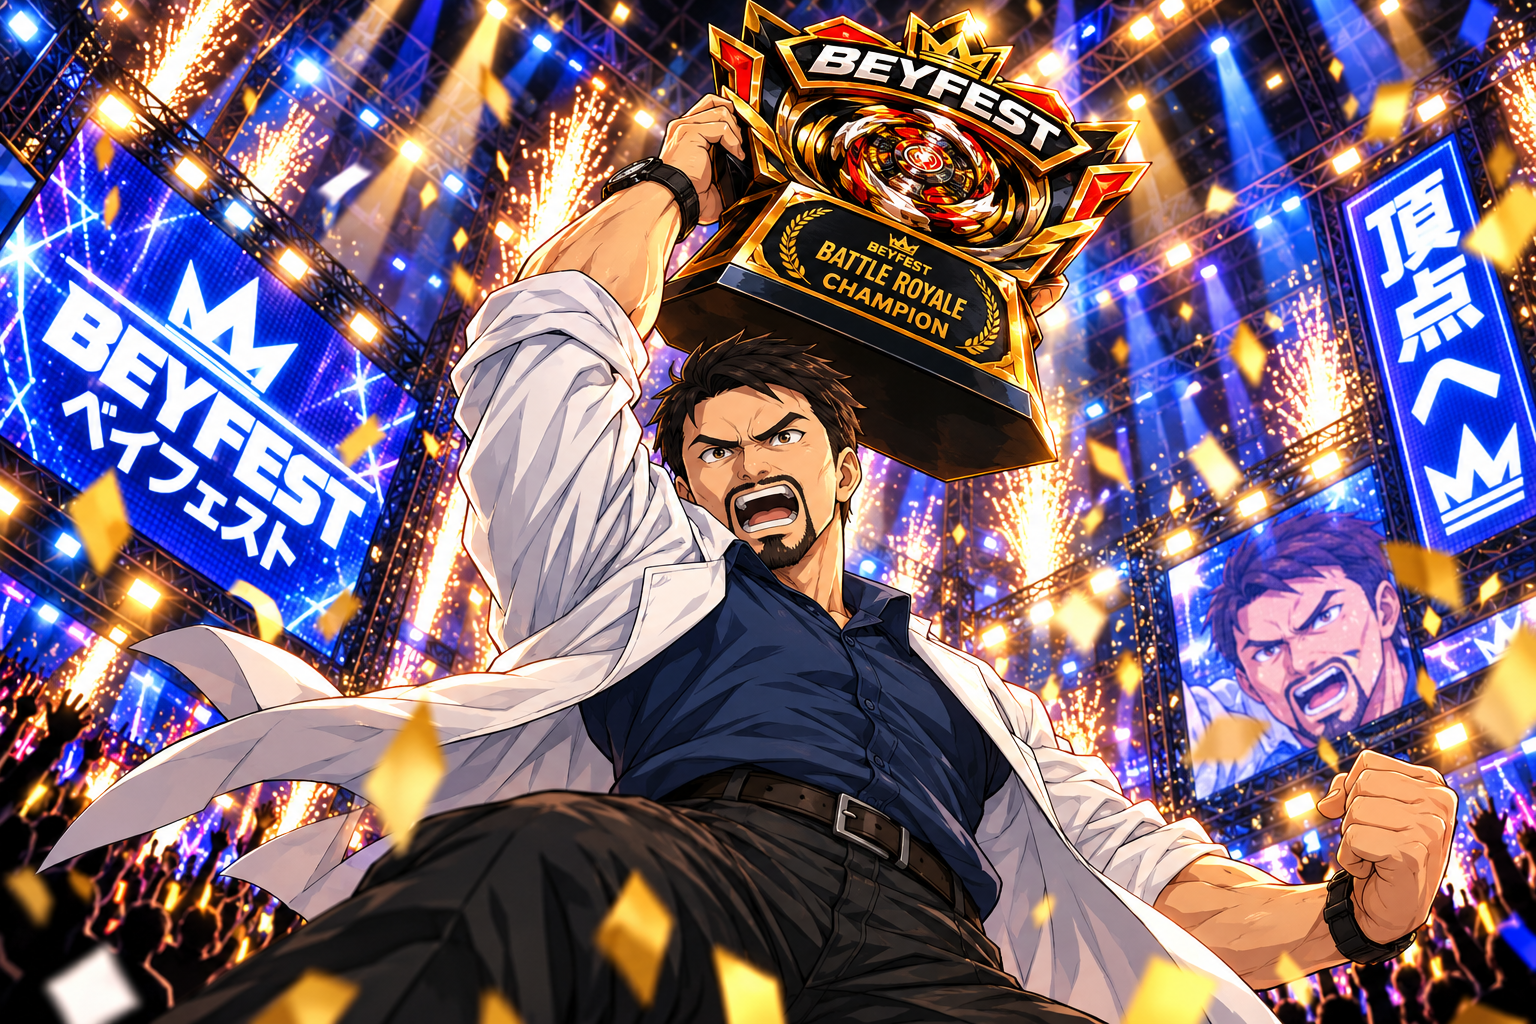
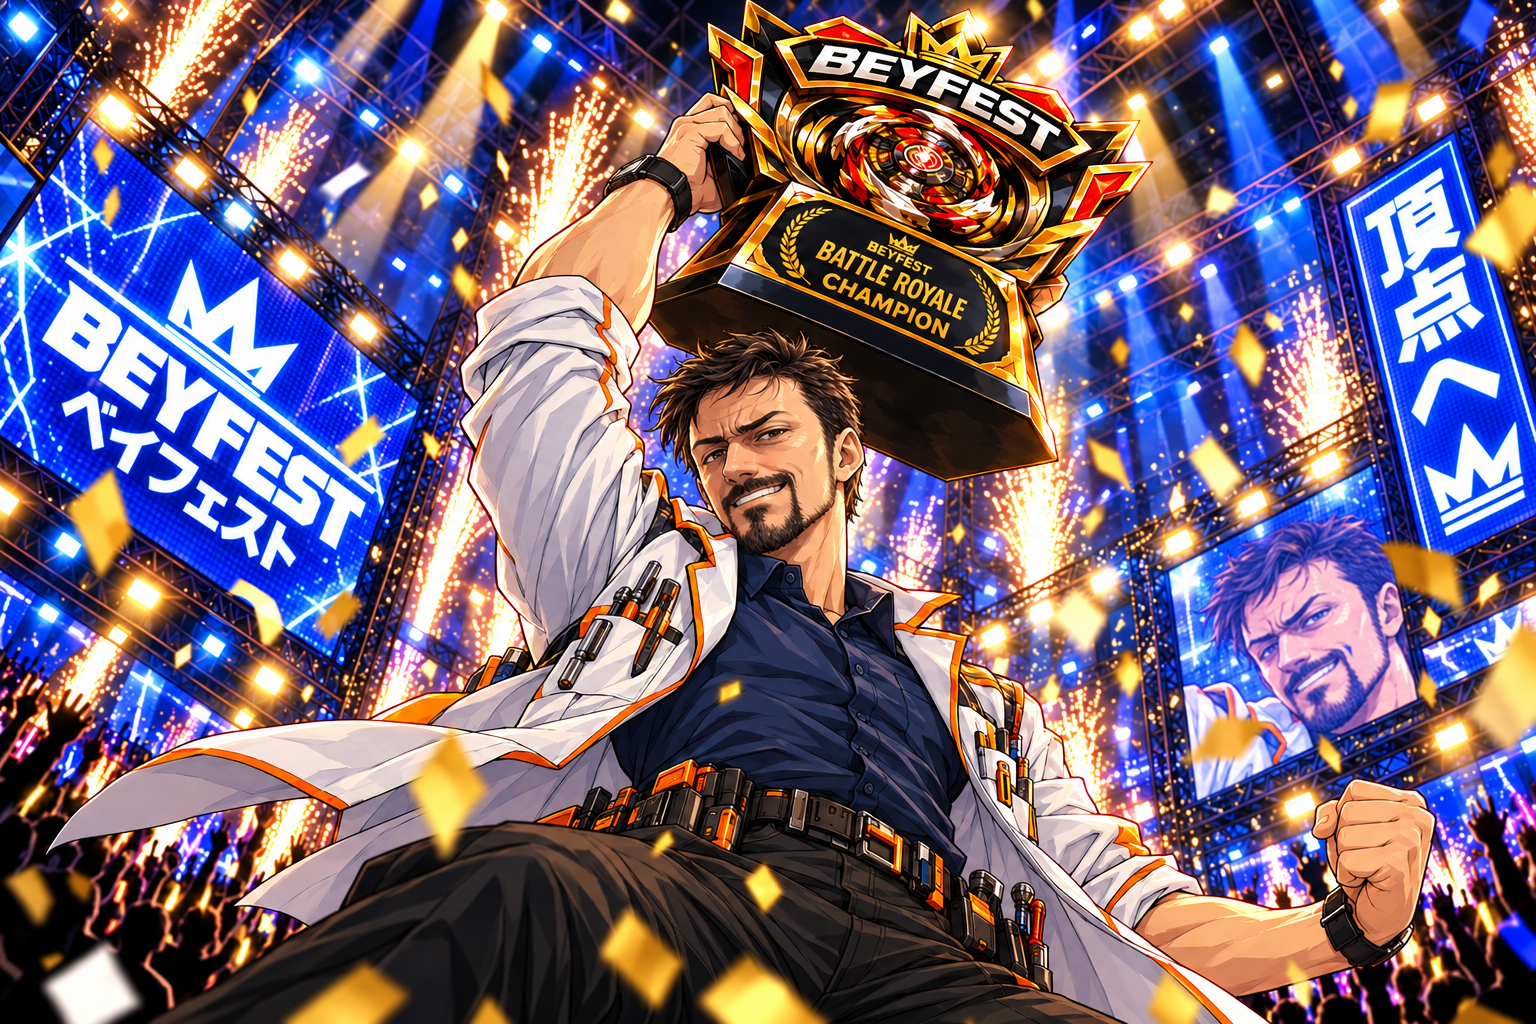
new Modsmith victory and royale victory images (poster-based face)

diff --git a/fighter-art/prompts/modsmith.md b/fighter-art/prompts/modsmith.md
@@ -36,3 +36,18 @@ were waiting in the chat.)
 ## Left as is
 
 - A small, symmetric crown in the Beyblade's centre.
+
+## Victory images (2026-10-28): approved
+
+- **Belt A** used the approved cut-out + photo for the face; the user said it didn't
+  look enough like the reference photos (a generic lean action-hero face).
+- The user supplied a **poster** of the Modsmith (`reference-photos/modsmith/upload/
+  5-concept-poster.jpg`) that "captures his features quite well". It became the MAIN
+  FACE REFERENCE for both victory images (the action image was left as approved).
+  The prompt named the poster's features: a long face and a strong straight nose;
+  heavy, flat brows low over narrowed, deep-set eyes; a moustache joined to a short
+  goatee; told it not to copy the poster's lettering, glue gun or flat colouring.
+- **Belt B** and **Royale A**, both with five attachments (template, approved cut-out
+  for the outfit, Pugilist close-up, photo, poster) and a smug, cocked-brow grin.
+  Approved: `approved/victory-modsmith.png`, `approved/royale-victory-modsmith.png`.
+- The hair stayed tousled to match the action image, rather than the poster's neat cut.
